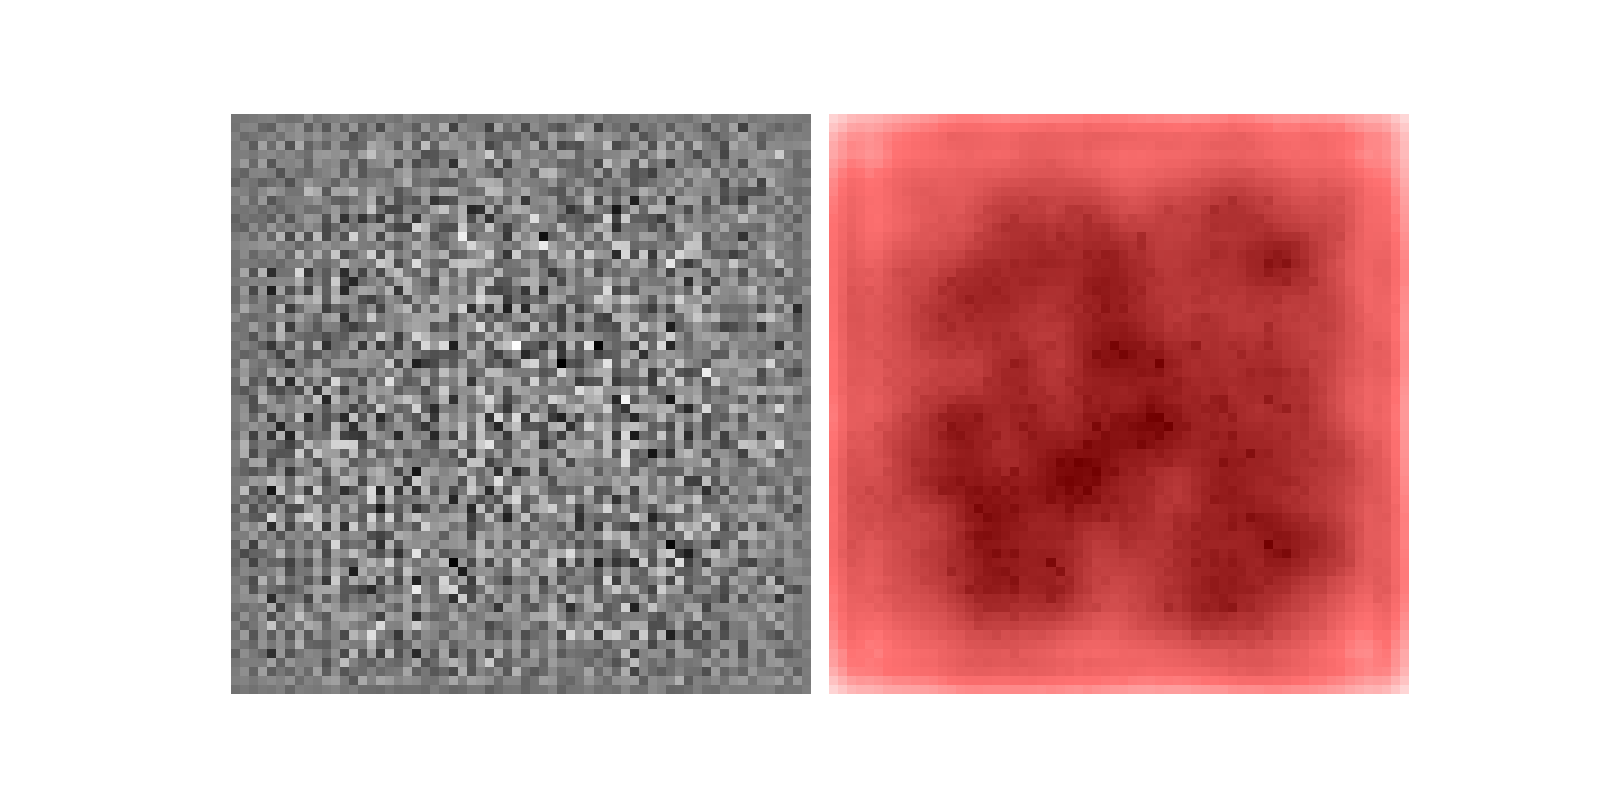
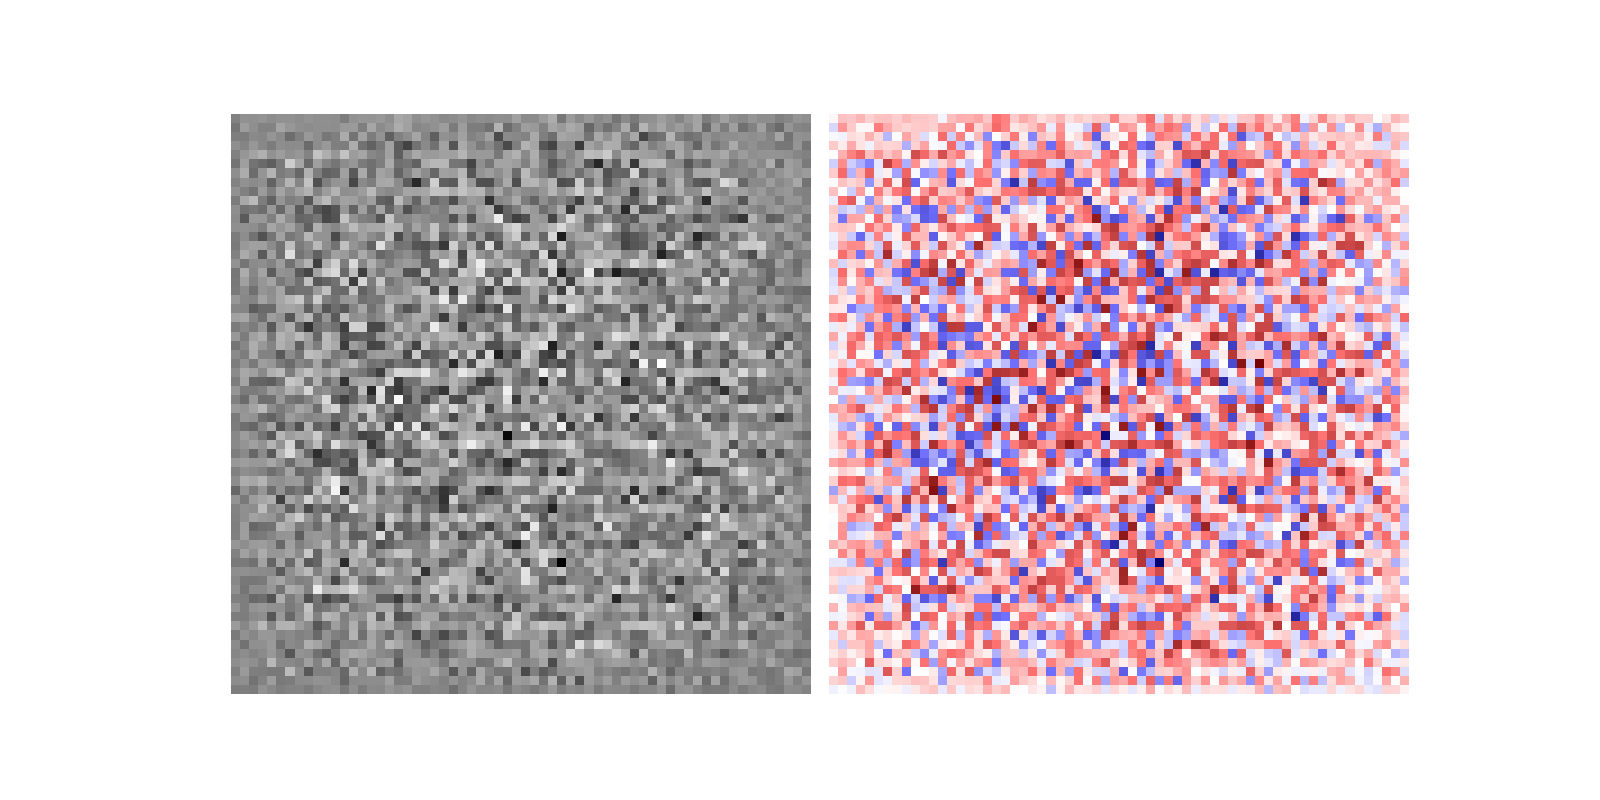
Implementation of virtual batch norm in generator, lrp re-activate

diff --git a/modules/ModuleRedefinitions.py b/modules/ModuleRedefinitions.py
@@ -302,34 +302,35 @@ class VBN(nn.Module):
     Virtual Batch Normalization
     """
 
-    def __init__(self, num_channels, eps=1e-5):
+    def __init__(self, num_features, eps=1e-5):
         super(VBN, self).__init__()
         assert isinstance(eps, float)
 
         # batch statistics
-        self.num_features = num_channels
         self.eps = eps
         self.mean = None
         self.mean_sq = None
         self.batch_size = None
         # reference output
         self.reference_output = None
-        # gamma = torch.normal(mean=torch.ones(1, num_features, 1), std=0.02)
-        # self.gamma = nn.Parameter(gamma.float())
-        # self.beta = nn.Parameter(torch.FloatTensor(1, num_features, 1).fill_(0))
+        self.gamma = None
+        self.beta = None
+        gamma = torch.normal(mean=torch.ones(1, num_features, 1, 1), std=0.02)
+        self.gamma = nn.Parameter(gamma.float())
+        self.beta = nn.Parameter(torch.FloatTensor(1, num_features, 1, 1).fill_(0))
 
     def initialize(self, x):
         # compute batch statistics
-        mean = x.mean(2, keepdim=True).mean(1, keepdim=True).mean(0, keepdim=True).resize(1, x.size(1), 1)
-        mean_sq = (x**2).mean(2, keepdim=True).mean(0, keepdim=True).resize(1, x.size(1), 1)
+        mean = x.mean(3, keepdim=True).mean(2, keepdim=True).mean(0, keepdim=True)
+        mean_sq = (x**2).mean(3, keepdim=True).mean(2, keepdim=True).mean(0, keepdim=True)
         self.batch_size = x.size(0)
         assert x is not None
         assert mean is not None
         assert mean_sq is not None
         # build detached variables to avoid backprop to graph to compute mean and mean_sq
         # we will manually backprop those in hooks
-        self.mean = nn.Variable(mean.data.clone(), requires_grad = True)  # new code
-        self.mean_sq = nn.Variable(mean_sq.data.clone(), requires_grad = True)  # new code
+        self.mean = mean.clone()
+        self.mean_sq = mean_sq.clone()
         self.mean.register_hook(lambda grad: mean.backward(grad, retain_graph = True))  # new code
         self.mean_sq.register_hook(lambda grad: mean_sq.backward(grad, retain_graph = True))  # new code
         # compute reference output
@@ -347,8 +348,8 @@ class VBN(nn.Module):
             ref_mean, ref_mean_sq = self.get_ref_batch_stats()
         new_coeff = 1. / (self.batch_size + 1.)
         old_coeff = 1. - new_coeff
-        new_mean = x.mean(2, keepdim=True).mean(0, keepdim=True).resize_as(self.mean)
-        new_mean_sq = (x**2).mean(2, keepdim=True).mean(0, keepdim=True).resize_as(self.mean_sq)
+        new_mean = x.mean(3, keepdim=True).mean(2, keepdim=True).mean(0, keepdim=True)
+        new_mean_sq = (x**2).mean(3, keepdim=True).mean(2, keepdim=True).mean(0, keepdim=True)
         mean = new_coeff * new_mean + old_coeff * ref_mean  # change
         mean_sq = new_coeff * new_mean_sq + old_coeff * ref_mean_sq  # change
         x = self._normalize(x, mean, mean_sq)
@@ -359,14 +360,13 @@ class VBN(nn.Module):
         assert mean_sq is not None
         assert mean is not None
         assert len(x.size()) == 4
-        #gamma = Variable(torch.Tensor(1, x.size(1), 1).cuda().normal_(1., 0.02))
-        #beta = Variable(torch.cuda.FloatTensor(1, x.size(1), 1).fill_(0))
         std = torch.sqrt(self.eps + mean_sq - mean**2)
         x = x - mean
         x = x / std
         x = x * self.gamma
         x = x + self.beta
         return x
+
     def __repr__(self):
         return ('{name}(num_features={num_features}, eps={eps}'.format(
             name=self.__class__.__name__, **self.__dict__))

diff --git a/models/_DCGAN.py b/models/_DCGAN.py
@@ -230,19 +230,19 @@ class GeneratorNet(nn.Module):
 
             nn.ConvTranspose2d(nz, ngf * 8, 4, 1, 0),
             nn.BatchNorm2d(ngf * 8),
-            nn.ReLU(True),
+            nn.LeakyReLU(0.2, True),
             # state size. (ngf*8) x 4 x 4
             nn.ConvTranspose2d(ngf * 8, ngf * 4, 4, 2, 1),
             nn.BatchNorm2d(ngf * 4),
-            nn.ReLU(True),
+            nn.LeakyReLU(0.2, True),
             # state size. (ngf*4) x 8 x 8
             nn.ConvTranspose2d(ngf * 4, ngf * 2, 4, 2, 1),
             nn.BatchNorm2d(ngf * 2),
-            nn.ReLU(True),
+            nn.LeakyReLU(0.2, True),
             # state size. (ngf*2) x 16 x 16
             nn.ConvTranspose2d(ngf * 2, ngf, 4, 2, 1),
             nn.BatchNorm2d(ngf),
-            nn.ReLU(True),
+            nn.LeakyReLU(0.2, True),
             # state size. (ngf) x 32 x 32
             nn.ConvTranspose2d(ngf, nc, 4, 2, 1),
             nn.Tanh()
@@ -266,7 +266,7 @@ class DiscriminatorNet(nn.Module):
         self.net = nnrd.RelevanceNet(
             nnrd.Layer(
                 nnrd.FirstConvolution(nc, ndf, 4, 2, 1),
-                nn.LeakyReLU(0.2, True),
+                nnrd.ReLu(),
             ),
             # state size. (ndf) x 32 x 32
             nnrd.Layer(
@@ -278,13 +278,13 @@ class DiscriminatorNet(nn.Module):
             nnrd.Layer(
                 nnrd.NextConvolution(ndf * 2, ndf * 4, 4, '2', 2, 1, alpha=alpha, beta=beta),
                 nnrd.BatchNorm2d(ndf * 4),
-                nn.LeakyReLU(0.2, True),
+                nnrd.ReLu(),
             ),
             # state size. (ndf*4) x 8 x 8
             nnrd.Layer(
                 nnrd.NextConvolution(ndf * 4, ndf * 8, 4, '3', 2, 1, alpha=alpha,  beta=beta),
                 nnrd.BatchNorm2d(ndf * 8),
-                nn.LeakyReLU(0.2, True),
+                nnrd.ReLu(),
             ),
             # state size. (ndf*8) x 4 x 4
             nnrd.Layer(

diff --git a/DCGAN.py b/DCGAN.py
@@ -217,7 +217,7 @@ class DiscriminatorNet(nn.Module):
 
 
 # generator = GeneratorNet(ngpu).to(gpu)
-generator = dcgm.GeneratorNet(nc, ngf, ngpu).to(gpu)
+generator = dcgm.GeneratorNetVBN(nc, ngf, ngpu).to(gpu)
 generator.apply(weights_init)
 if opt.loadG != '':
     generator.load_state_dict(torch.load(opt.loadG))
@@ -313,17 +313,17 @@ for epoch in range(opt.epochs):
 
             # eval needs to be set so batch norm works with batch size of 1
             test_result = discriminator(test_fake)
-            # test_relevance = discriminator.relprop()
+            test_relevance = discriminator.relprop()
 
             # set ngpu back to opt.ngpu
             if (opt.ngpu > 1):
                 discriminator.setngpu(opt.ngpu)
 
             # Add up relevance of all color channels
-            # test_relevance = torch.sum(test_relevance, 1, keepdim=True)
+            test_relevance = torch.sum(test_relevance, 1, keepdim=True)
 
             img_name = logger.log_images(
-                test_fake.detach(), test_fake.detach(), 1,
+                test_fake.detach(), test_relevance.detach(), 1,
                 epoch, n_batch, len(dataloader)
             )
 
